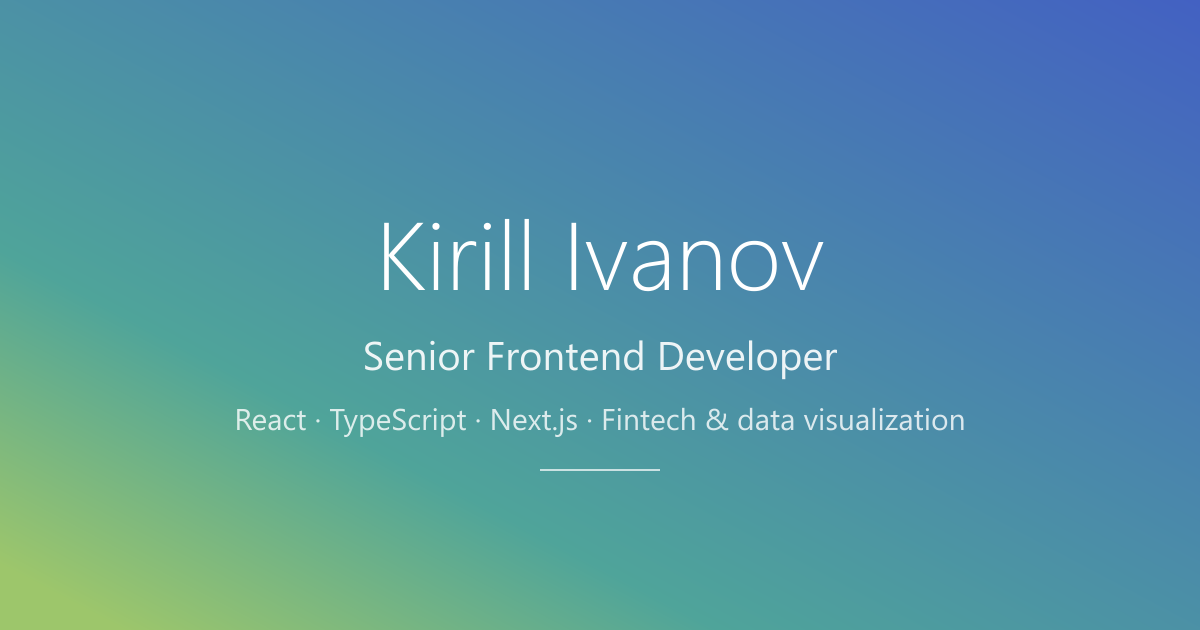
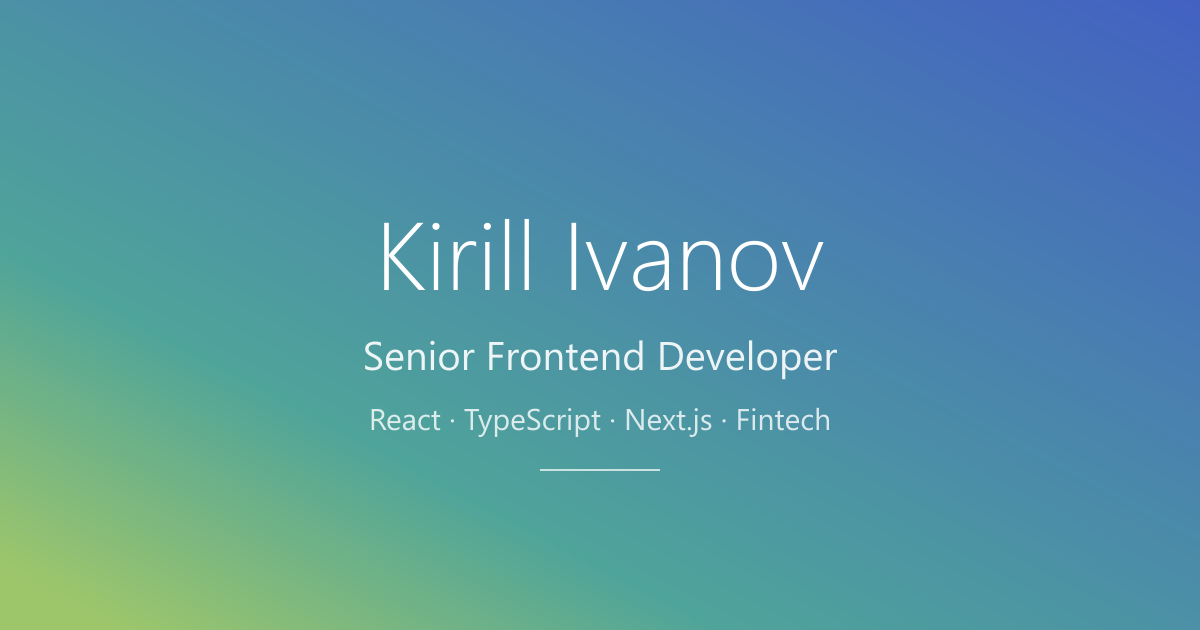
Reposition headline and summary on fintech / data-heavy enterprise web

Changed region(s): [[0.2775, 0.6333, 0.8017, 0.6937], [0.185, 0.6333, 0.2467, 0.6937]]

diff --git a/index.html b/index.html
@@ -5,7 +5,7 @@
         <meta name="viewport" content="width=device-width, initial-scale=1" />
         <meta
             name="description"
-            content="Kirill Ivanov — Senior Frontend Developer (React, TypeScript, Next.js). Fintech and data visualization. Bratislava, Slovakia."
+            content="Kirill Ivanov — Senior Frontend Developer (React, TypeScript, Next.js). Fintech and data-heavy enterprise web. Bratislava, Slovakia."
         />
         <title>Kirill Ivanov — Senior Frontend Developer</title>
         <link rel="icon" type="image/svg+xml" href="/favicon.svg" />
@@ -19,7 +19,7 @@
         />
         <meta
             property="og:description"
-            content="React, TypeScript, Next.js. Fintech and data visualization. Bratislava, Slovakia."
+            content="React, TypeScript, Next.js. Fintech and data-heavy enterprise web. Bratislava, Slovakia."
         />
         <meta
             property="og:image"
@@ -47,7 +47,7 @@
                     "TypeScript",
                     "Next.js",
                     "Highcharts",
-                    "Data visualization"
+                    "Fintech"
                 ],
                 "sameAs": [
                     "https://github.com/nfk23b",
